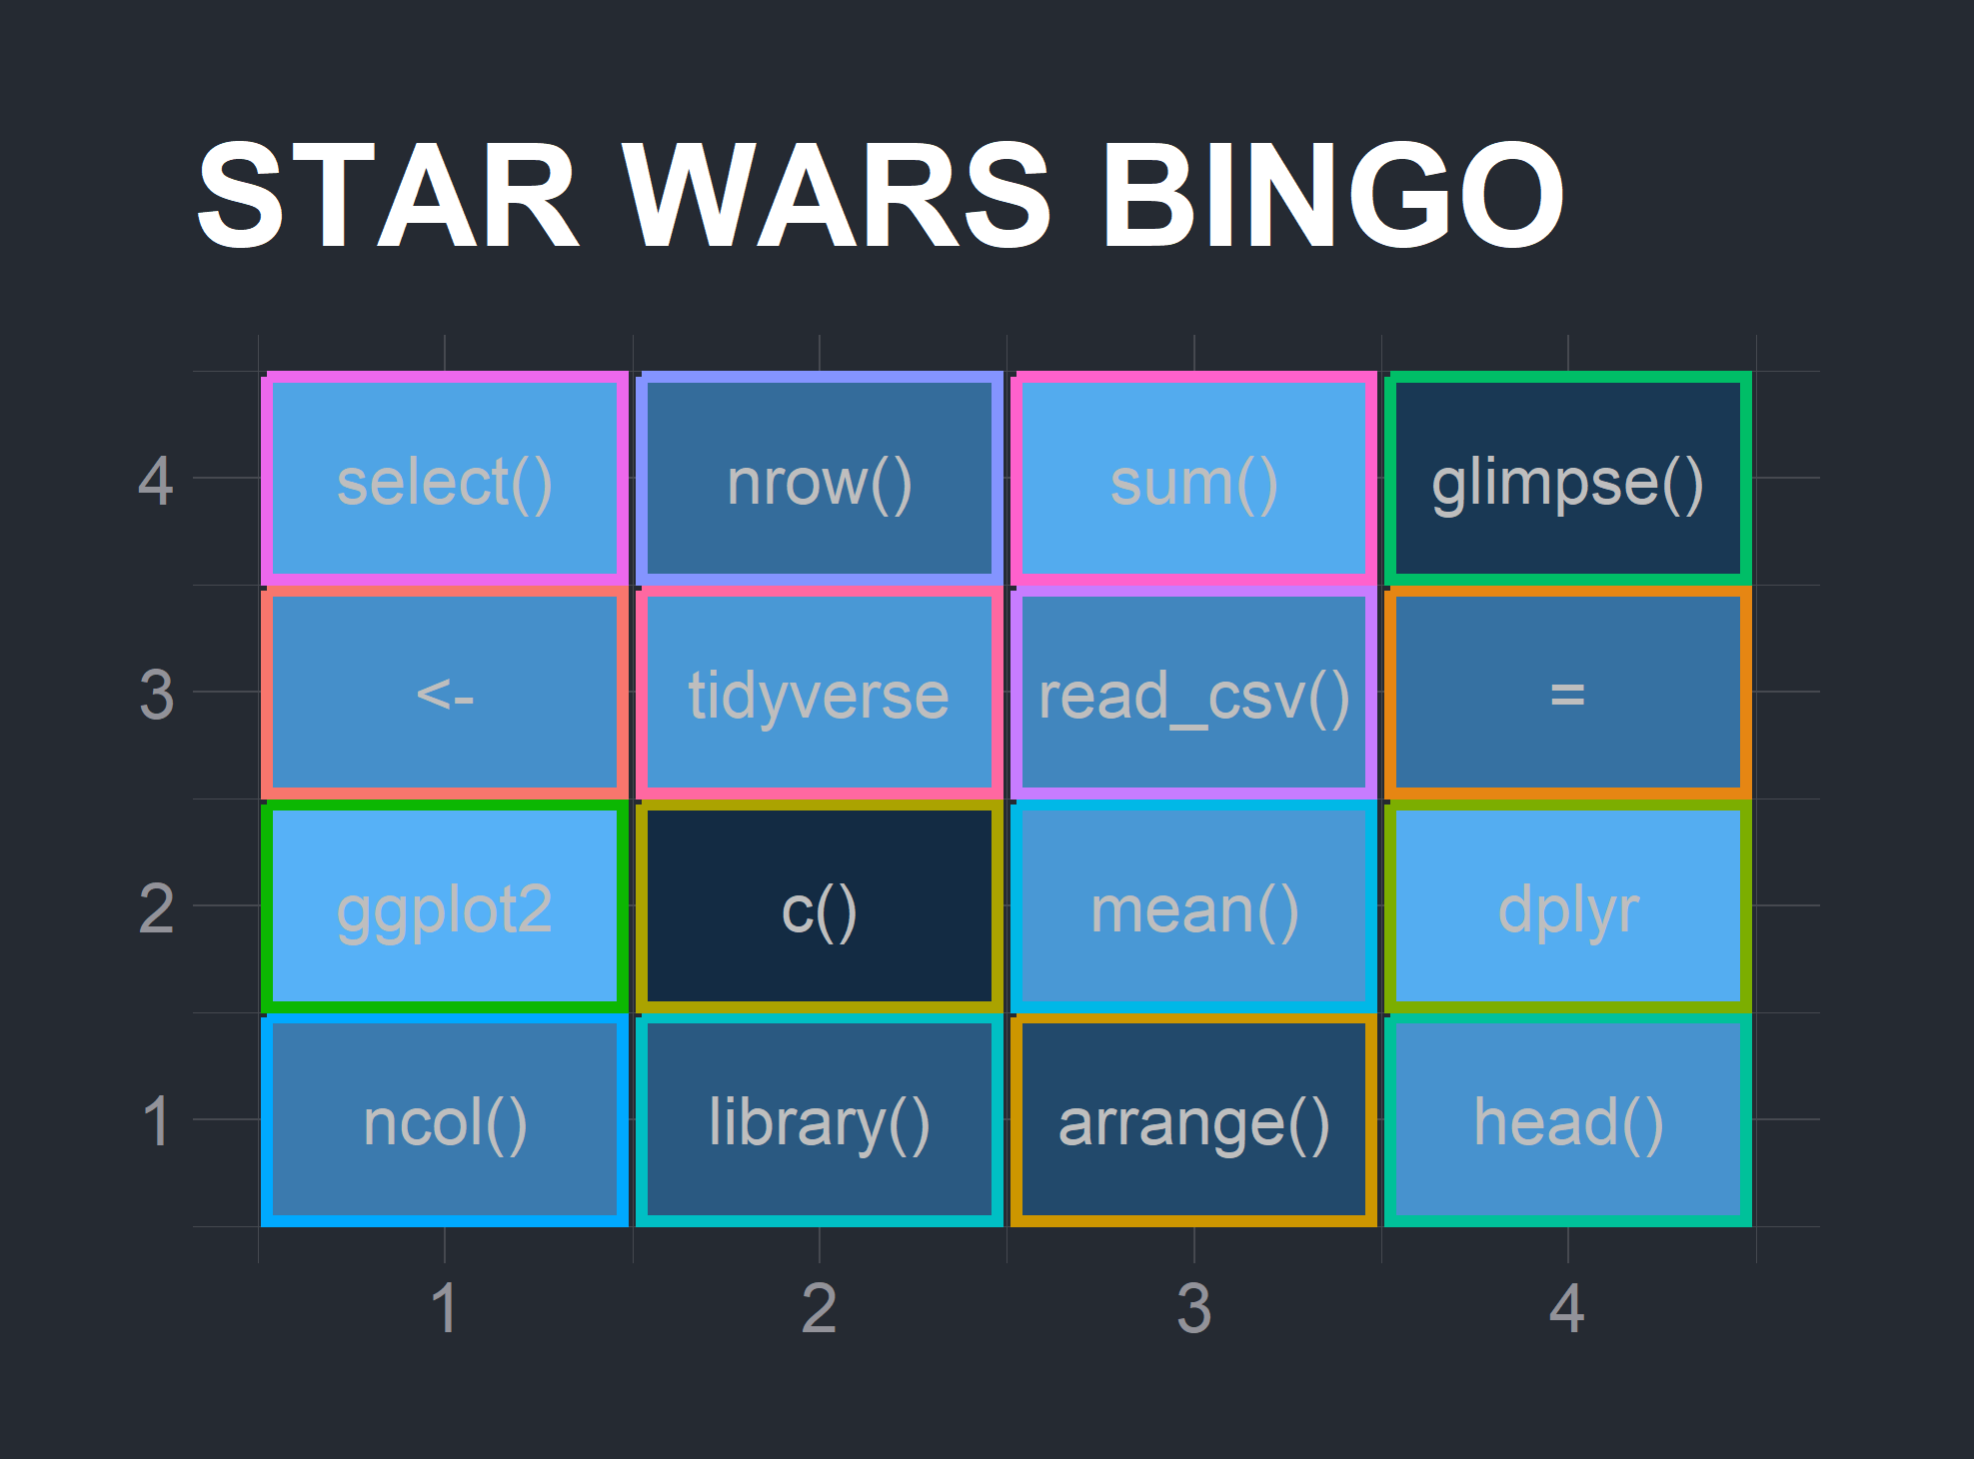
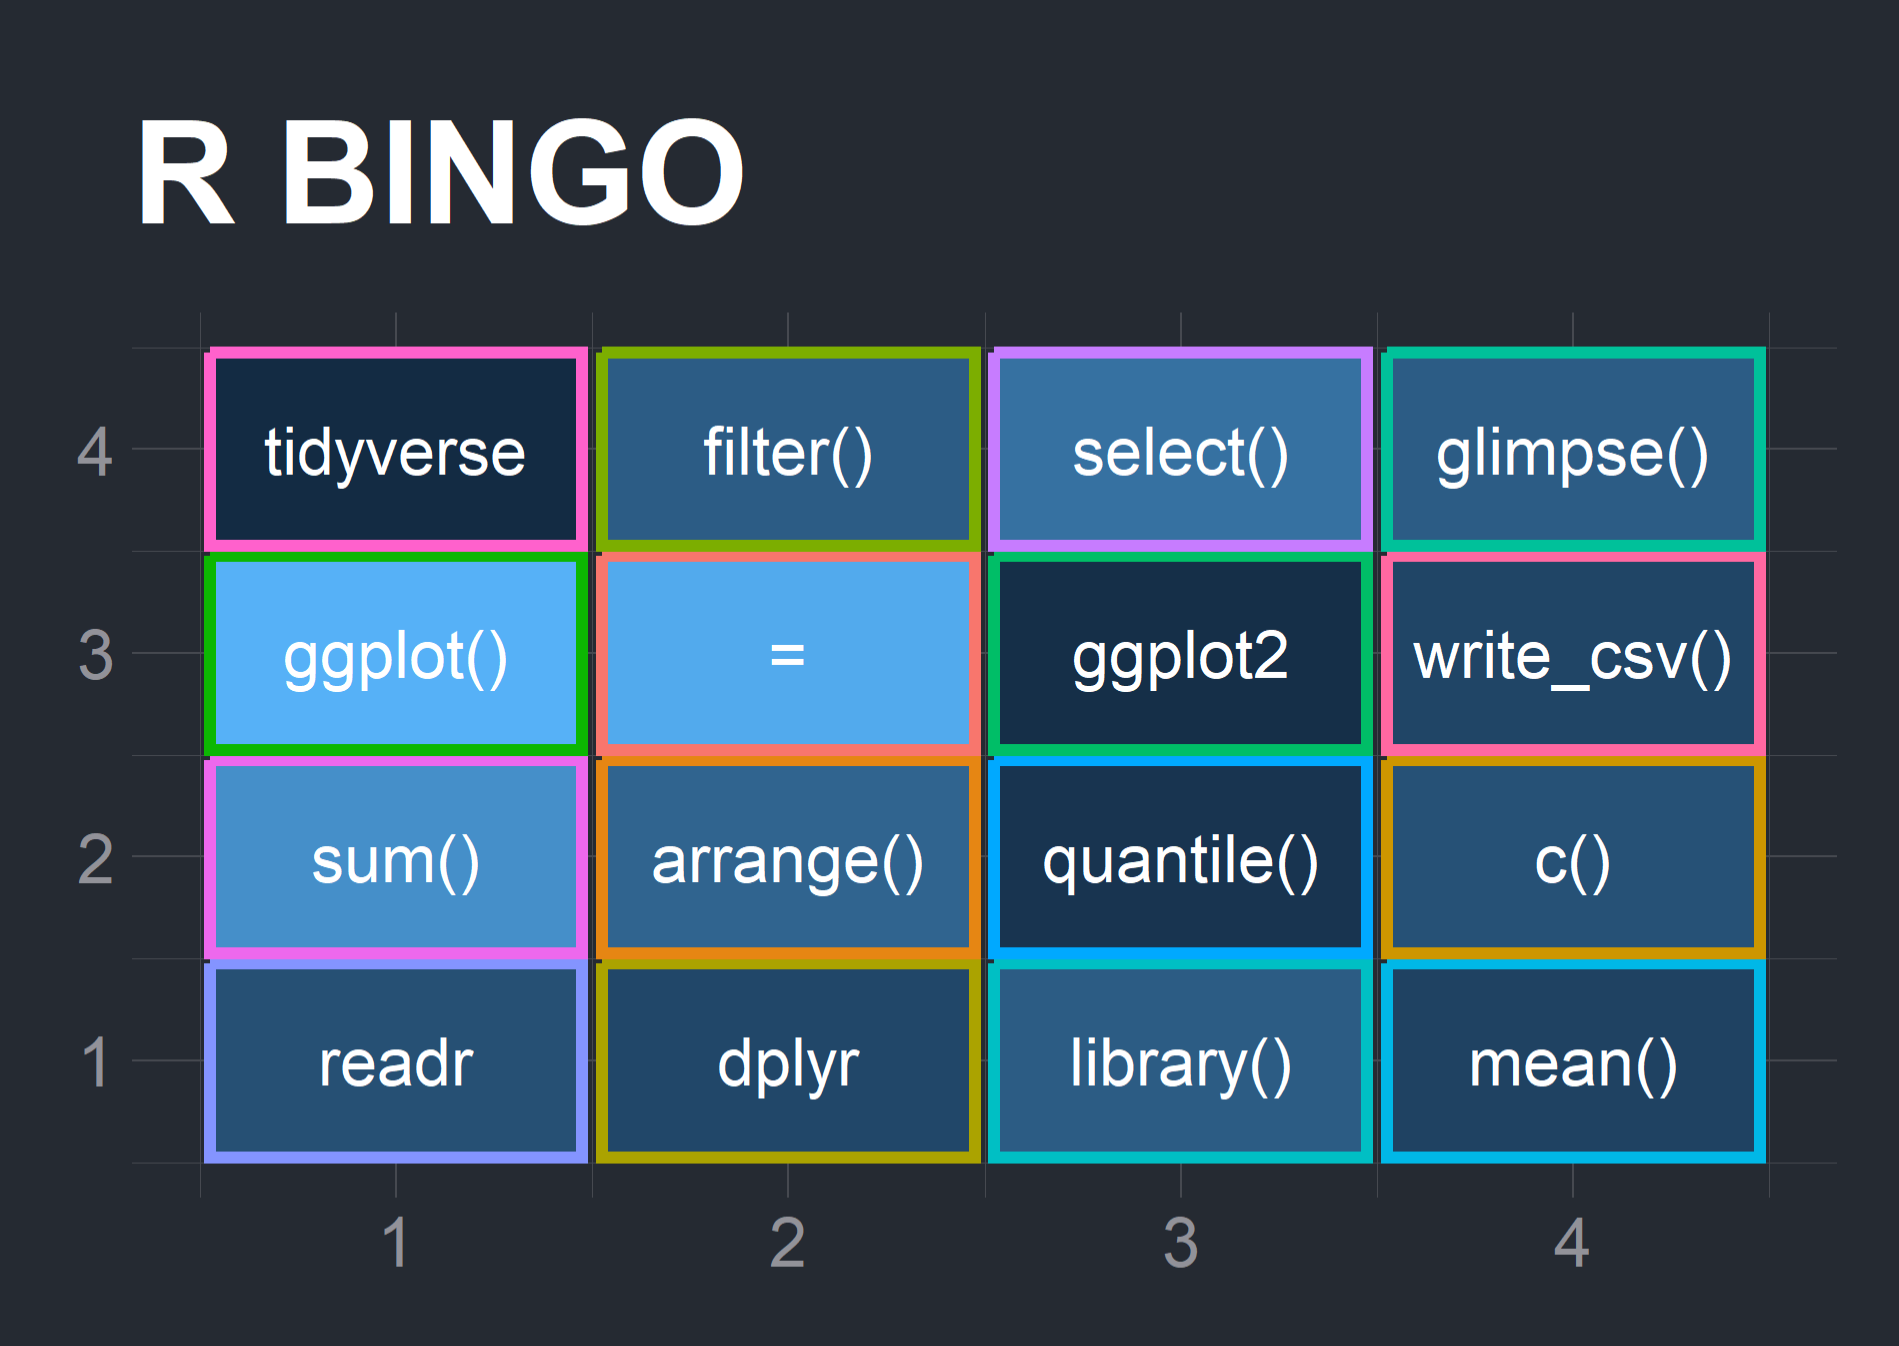
"R Bingo"

diff --git a/public/page/day1_pm.html b/public/page/day1_pm.html
@@ -63,7 +63,7 @@
   "headline": "Day 1 - PM",
   "description" : "window.xaringanExtraClipboard(null, {\x22button\x22:\x22Copy Code\x22,\x22success\x22:\x22Copied!\x22,\x22error\x22:\x22Press Ctrl\x2bC to Copy\x22}) pre  code.sourceCode { white-space: pre; position: relative; } pre  code.",
   "inLanguage" : "en",
-  "wordCount":  4327 ,
+  "wordCount":  4326 ,
   "datePublished" : "0001-01-01T00:00:00",
   "dateModified" : "0001-01-01T00:00:00",
   "image" : "https:\/\/mn-r.netlify.app\/images\/BB8_rnd_icon.png",
@@ -777,7 +777,7 @@ code span.wa { color: #8f5902; font-weight: bold; font-style: italic; } /* Warni
 <div id="r-bingo" class="section level1 unnumbered">
 <h1>R BINGO!</h1>
 <hr class="hr2">
-<p><img src="../images/bingo_ggcard.jpg" style="margin: auto; margin-top: 10px; margin-bottom: 12px;;width:60.0%" align="center" /></p>
+<p><img src="../images/bingo_ggcard.png" style="width: 80%; margin: auto; margin-top: 10px; margin-bottom: 12px;" align="center" /></p>
 <p><br></p>
 <div id="build-your-bingo-card" class="section level3 unnumbered">
 <h3>1. Build your Bingo card</h3>
@@ -861,7 +861,7 @@ Make Bingo Card
 <span id="cb22-44"><a href="#cb22-44" aria-hidden="true" tabindex="-1"></a>  <span class="co">#theme_ft_rc(plot_title_size = 24) +</span></span>
 <span id="cb22-45"><a href="#cb22-45" aria-hidden="true" tabindex="-1"></a>  <span class="fu">theme_void</span>() <span class="sc">+</span></span>
 <span id="cb22-46"><a href="#cb22-46" aria-hidden="true" tabindex="-1"></a>  <span class="fu">theme</span>(<span class="at">legend.position =</span> <span class="st">&quot;none&quot;</span>) <span class="sc">+</span> </span>
-<span id="cb22-47"><a href="#cb22-47" aria-hidden="true" tabindex="-1"></a>  <span class="fu">labs</span>(<span class="at">title =</span> <span class="st">&quot;STAR WARS BINGO&quot;</span>,</span>
+<span id="cb22-47"><a href="#cb22-47" aria-hidden="true" tabindex="-1"></a>  <span class="fu">labs</span>(<span class="at">title =</span> <span class="st">&quot;R BINGO&quot;</span>,</span>
 <span id="cb22-48"><a href="#cb22-48" aria-hidden="true" tabindex="-1"></a>       <span class="at">x =</span> <span class="st">&quot;&quot;</span>, <span class="at">y =</span> <span class="st">&quot;&quot;</span>)</span></code></pre></div>
 </details>
 </div>

diff --git a/content/page/Day1_PM.html b/content/page/Day1_PM.html
@@ -506,7 +506,7 @@ code span.wa { color: #8f5902; font-weight: bold; font-style: italic; } /* Warni
 <div id="r-bingo" class="section level1 unnumbered">
 <h1>R BINGO!</h1>
 <hr class="hr2">
-<p><img src="../images/bingo_ggcard.jpg" style="margin: auto; margin-top: 10px; margin-bottom: 12px;;width:60.0%" align="center" /></p>
+<p><img src="../images/bingo_ggcard.png" style="width: 80%; margin: auto; margin-top: 10px; margin-bottom: 12px;" align="center" /></p>
 <p><br></p>
 <div id="build-your-bingo-card" class="section level3 unnumbered">
 <h3>1. Build your Bingo card</h3>
@@ -590,7 +590,7 @@ Make Bingo Card
 <span id="cb22-44"><a href="#cb22-44" aria-hidden="true" tabindex="-1"></a>  <span class="co">#theme_ft_rc(plot_title_size = 24) +</span></span>
 <span id="cb22-45"><a href="#cb22-45" aria-hidden="true" tabindex="-1"></a>  <span class="fu">theme_void</span>() <span class="sc">+</span></span>
 <span id="cb22-46"><a href="#cb22-46" aria-hidden="true" tabindex="-1"></a>  <span class="fu">theme</span>(<span class="at">legend.position =</span> <span class="st">&quot;none&quot;</span>) <span class="sc">+</span> </span>
-<span id="cb22-47"><a href="#cb22-47" aria-hidden="true" tabindex="-1"></a>  <span class="fu">labs</span>(<span class="at">title =</span> <span class="st">&quot;STAR WARS BINGO&quot;</span>,</span>
+<span id="cb22-47"><a href="#cb22-47" aria-hidden="true" tabindex="-1"></a>  <span class="fu">labs</span>(<span class="at">title =</span> <span class="st">&quot;R BINGO&quot;</span>,</span>
 <span id="cb22-48"><a href="#cb22-48" aria-hidden="true" tabindex="-1"></a>       <span class="at">x =</span> <span class="st">&quot;&quot;</span>, <span class="at">y =</span> <span class="st">&quot;&quot;</span>)</span></code></pre></div>
 </details>
 </div>
